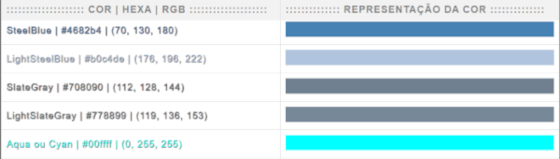
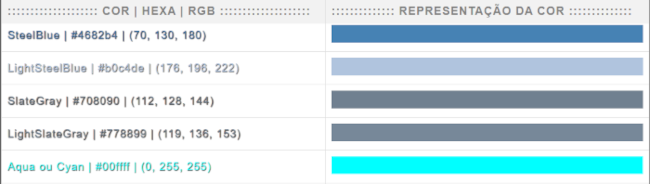
atualização

Changed region(s): [[0.5161, 0.9308, 1.0, 0.956], [0.5161, 0.8302, 1.0, 0.8553]]

diff --git a/README.md b/README.md
@@ -4,7 +4,7 @@
 > - Cores (with python, html, css and javascript) - [Click here](https://alexandrelorena.github.io/projetos-em-python/cores/cores_table.html) or in the image to test the browser
 > 
 > 
->    <img alt="Texto Alternativo" height="159" src="cores/images/cores5.png" width="650"/><br>
+>   <img alt="Texto Alternativo" height="184" src="cores/images/cores5.png" width="650"/><br>
 >
 > - Banco
 > - Game
